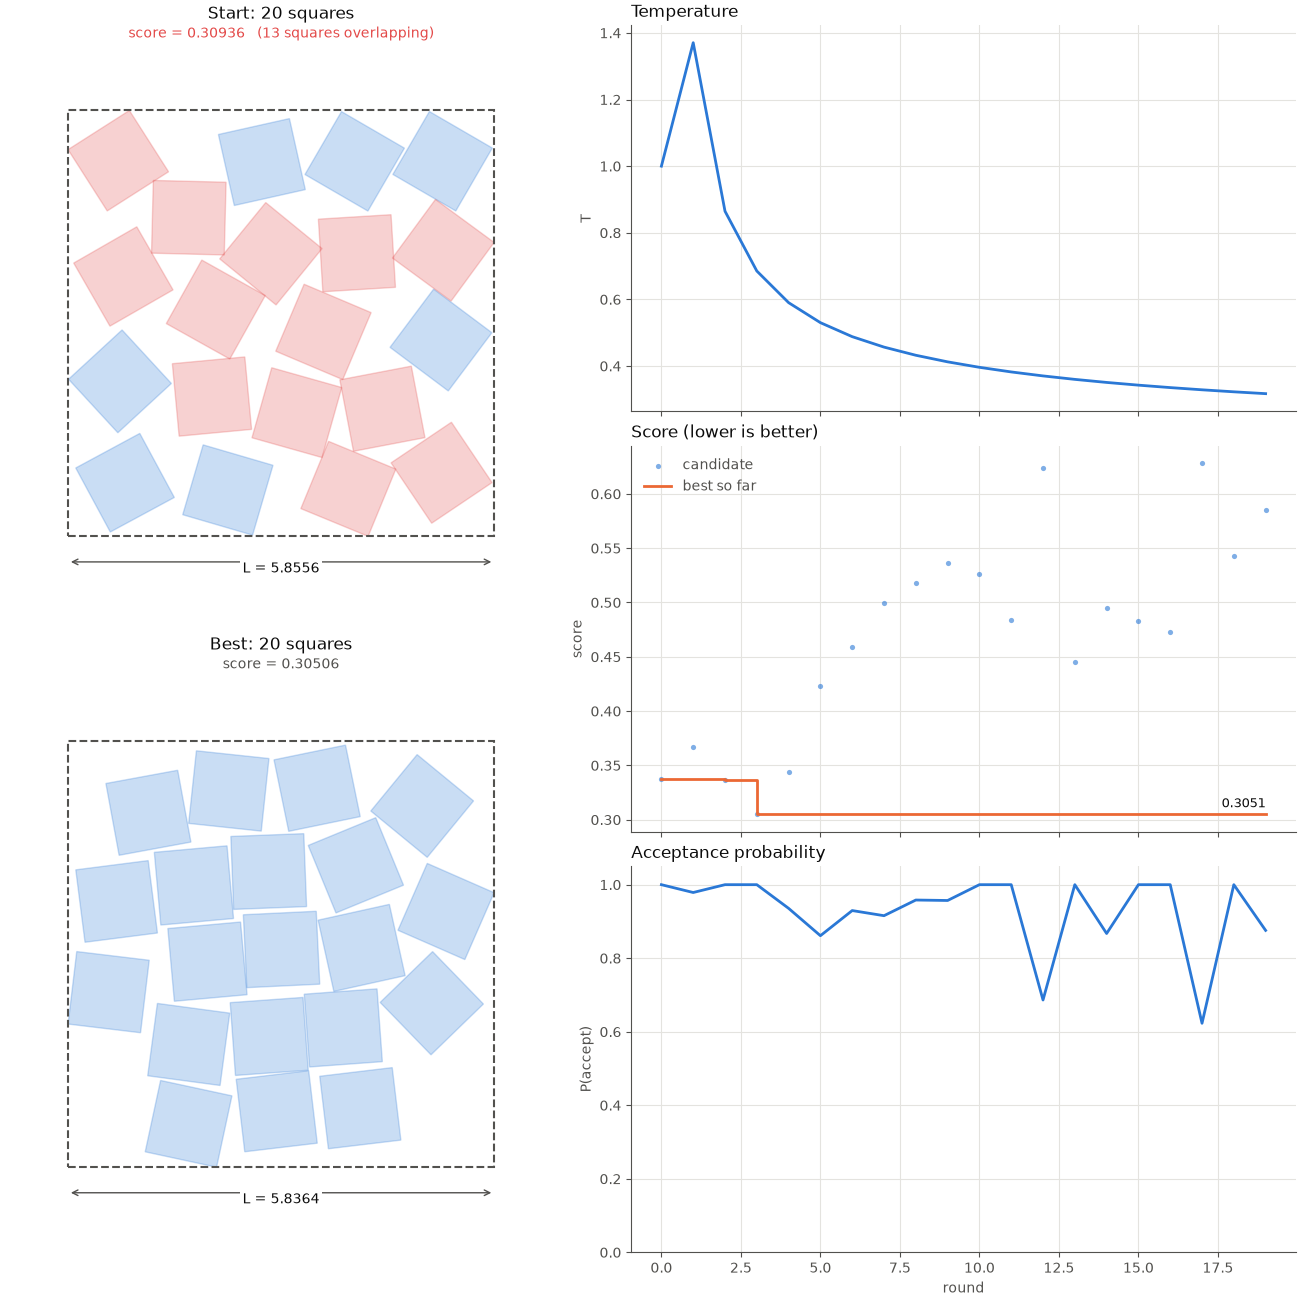
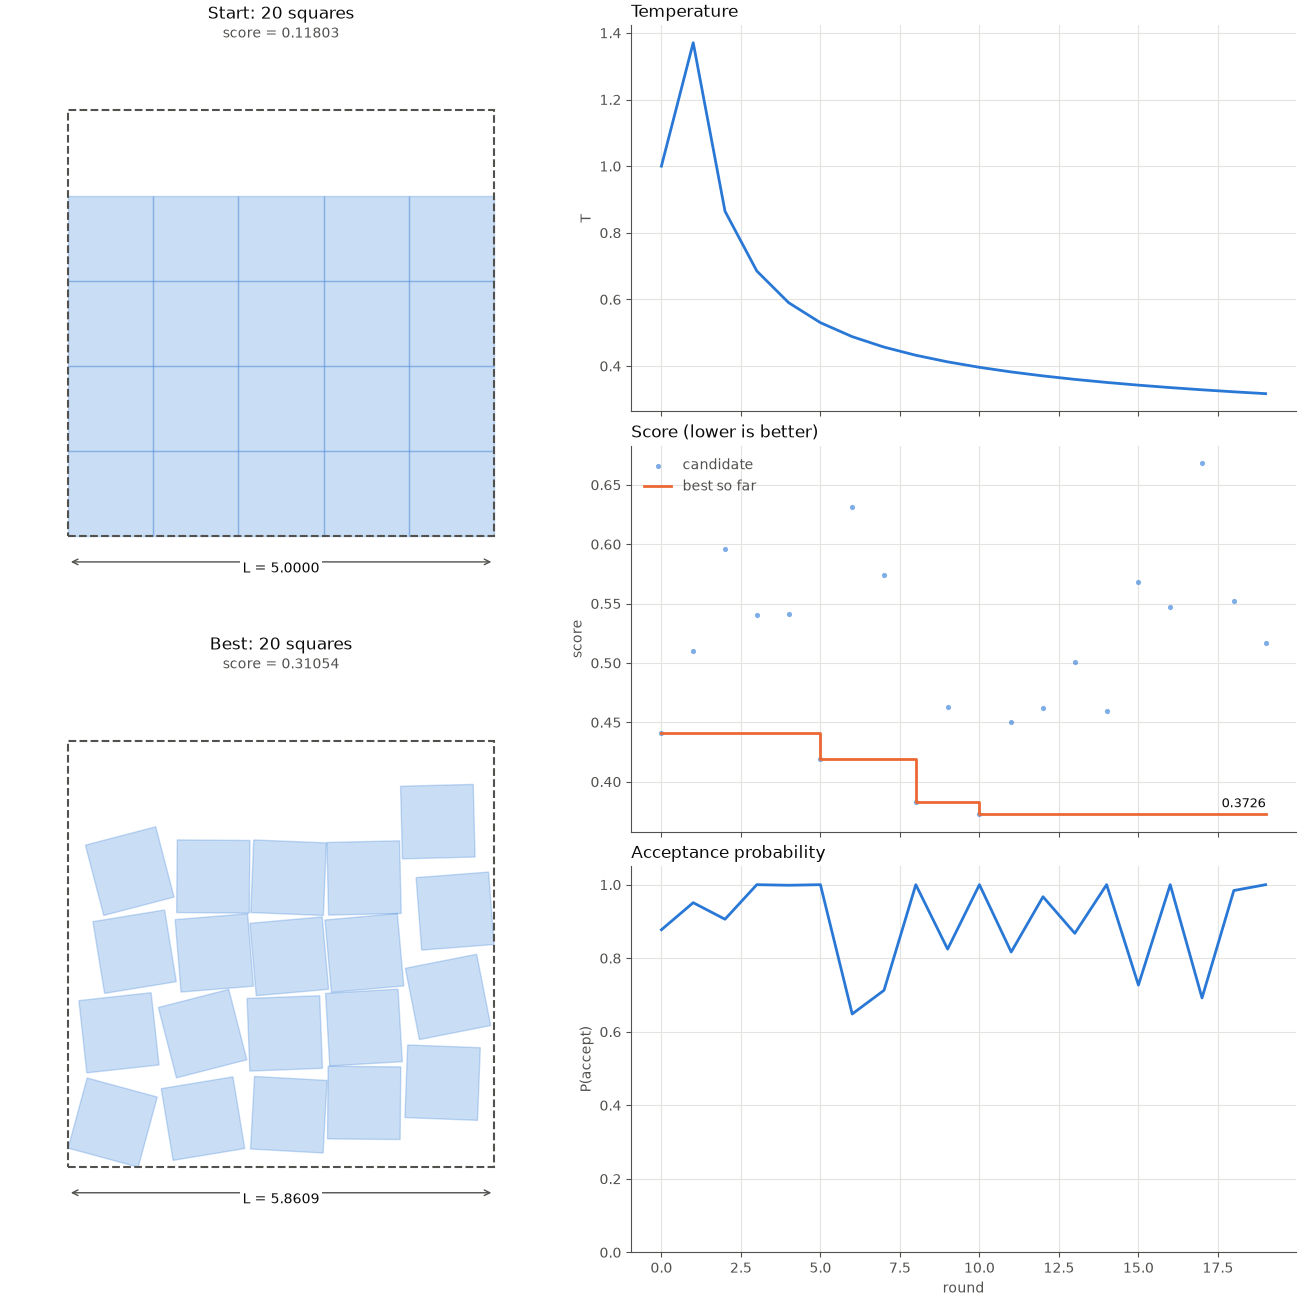
code: added a sequential version of lfbgs that scales lambda up, to fix near-valid solutions

diff --git a/main.py b/main.py
@@ -38,7 +38,9 @@ from sis.optimize import (
     anneal,
     init_random, 
     block_start,
-    flat_loss
+    flat_loss,
+    lbfgs,
+    seq_lbfgs
 )
 
 
@@ -99,7 +101,7 @@ def main():
 
 
     #init, fixed = block_start(n=n)
-    init = init_random(n=n)
+    init = grid(n=n)
     # init = grid(n)
     fixed=None
     
@@ -133,23 +135,8 @@ def main():
     print('#' * 50)
     print("\nExample using L-BFGS:")
     lam = 10.0
-    sq = init
-    L0 = container_side(sq)
-    sq0 = np.append(sq.ravel(), L0) # this attaches L0 to the very end           
-
-    # minimize calls this after every iteration; naming the argument
-    # `intermediate_result` makes scipy pass the current OptimizeResult,
-    # so the loss (.fun) is already computed for us.
-    losses = [flat_loss(sq0, n, lam)]
-    def callback(intermediate_result):
-        losses.append(intermediate_result.fun)
-
-    res = minimize(flat_loss, sq0, args=(n, lam), method="L-BFGS-B", callback=callback)
-
-    print(f"L-BFGS: lambda {lam}, L0: {L0}")
-
-    sq_opt = res.x[:-1].reshape(n, 3)       
-    L_opt = res.x[-1]
+    # call lbfgs function for square packing.
+    sq, sq_opt, L_opt, losses = lbfgs(sq=init, n=n, lam=lam)
 
 
     fig = sv.plot_descent(sq, sq_opt, losses)
@@ -183,6 +170,18 @@ def main():
 
     fig = sv.plot_annealing(results)
     fig.savefig("demo_anneal_post_lfbgs.png")  
+
+    ############################################
+    # SEQUENTIAL LFBGS
+    ############################################
+    # same as lfbgs, but reruns lfbgs on previous runs' output,
+    # and scales lambda by a multiple. Goal is that increasing lambda will let
+    # future runs correct near-valid solutions by highly penalizing overlaps.
+    print("DEMO OF SEQ LFBGS TO REFINE NEAR-VALID RESULTS:")
+    sq, sq_opt, L_opt, losses = seq_lbfgs(sq=init, n=n, lam_start=100.0, lam_mult=10.0, lam_stages=5)
+    fig = sv.plot_descent(sq, sq_opt, losses)
+    fig.savefig("demo_seq_lbfgs.png")
+
 
     # the store keeps only valid, strictly better packings per n.
     # a throwaway directory here; the real store defaults to ./solutions.

diff --git a/src/sis/optimize.py b/src/sis/optimize.py
@@ -311,14 +311,14 @@ def flat_loss(p, n, lam=10.0):
     # of x, y, angle.
     return loss(p[:-1].reshape(n, 3), p[-1], lam)
 
-def lbfgs(sq: np.ndarray, n: int, lam_start):
+def lbfgs(sq: np.ndarray, n: int, lam):
     # placeholder for increasing lambda over time.
     L0 = container_side(sq)
     sq0 = np.append(sq.ravel(), L0) # this attaches L0 to the very end
-    losses = [flat_loss(sq0, n, lam_start)]
+    losses = [flat_loss(sq0, n, lam)]
     def callback(intermediate_result):
         losses.append(intermediate_result.fun) 
-    res = minimize(flat_loss, sq0, args=(n, lam_start), method="L-BFGS-B", callback=callback)
+    res = minimize(flat_loss, sq0, args=(n, lam), method="L-BFGS-B", callback=callback)
     sq_opt = res.x[:-1].reshape(n, 3)       
     L_opt = res.x[-1]
     return sq, sq_opt, L_opt, losses
@@ -340,7 +340,7 @@ def seq_lbfgs(sq: np.ndarray, n: int, lam_start, lam_mult=10.0, lam_stages=4):
         lam *= lam_mult
 
     return sq, p[:-1].reshape(n, 3), p[-1], losses
-a
+
 
     
 
